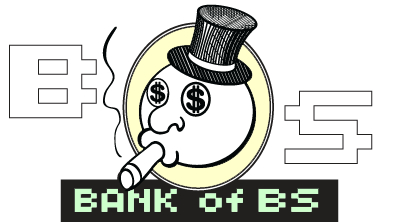
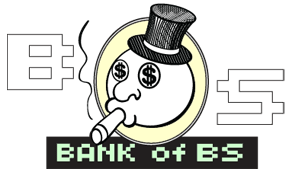
shrinking header

diff --git a/jekyll/stylesheets/screen.css b/jekyll/stylesheets/screen.css
@@ -64,19 +64,18 @@ body#default a { text-decoration: none; }
 body#default a:hover { color: #00f; font-style: bolder; }
 body#default .container { width: 950px; margin: 0 auto; overflow: hidden; display: inline-block; border: 1px solid #ccccc9; margin-bottom: 14px; background-color: #fff; }
 body#default .container { display: block; }
-body#default #header { width: 950px; margin: 0 auto; overflow: hidden; display: inline-block; display: inline; float: left; margin-right: 0; width: 950px; background-color: #ccffff; height: 195px; border-bottom: 1px solid #333; margin-bottom: 44px; }
+body#default #header { width: 950px; margin: 0 auto; overflow: hidden; display: inline-block; display: inline; float: left; margin-right: 0; width: 950px; background-color: #ccffff; height: 155px; border-bottom: 1px solid #333; margin-bottom: 44px; }
 body#default #header { display: block; }
 * html body#default #header { overflow-x: hidden; }
-body#default #header .foreclosed { display: inline; float: left; margin-right: 10px; width: 190px; padding-top: 123px; }
+body#default #header .foreclosed { display: inline; float: left; margin-right: 10px; width: 190px; padding-top: 80px; }
 * html body#default #header .foreclosed { overflow-x: hidden; }
 body#default #header .foreclosed img { margin-left: 11px; }
 body#default #header .logo { padding-left: 40px; display: inline; float: left; margin-right: 10px; width: 350px; }
 * html body#default #header .logo { overflow-x: hidden; }
-body#default #header .logo img { z-index: 99; overflow: visible; position: absolute; margin-left: 1px; }
+body#default #header .logo img { z-index: 99; overflow: visible; position: absolute; margin-left: 83px; }
 body#default #header .quote { padding-left: 480px; display: inline; float: left; margin-right: 0; width: 190px; text-align: center; }
 * html body#default #header .quote { overflow-x: hidden; }
 body#default #header .quote span { margin-top: 46px; font-style: italic; display: block; }
-body#default #header .quote .home-logo { text-align: left; margin-top: 33px; }
 body#default #content-wrapper { width: 950px; margin: 0 auto; overflow: hidden; display: inline-block; display: inline; float: left; margin-right: 10px; width: 870px; padding-left: 40px; min-height: 444px; }
 body#default #content-wrapper { display: block; }
 * html body#default #content-wrapper { overflow-x: hidden; }

diff --git a/public/stylesheets/screen.css b/public/stylesheets/screen.css
@@ -64,19 +64,18 @@ body#default a { text-decoration: none; }
 body#default a:hover { color: #00f; font-style: bolder; }
 body#default .container { width: 950px; margin: 0 auto; overflow: hidden; display: inline-block; border: 1px solid #ccccc9; margin-bottom: 14px; background-color: #fff; }
 body#default .container { display: block; }
-body#default #header { width: 950px; margin: 0 auto; overflow: hidden; display: inline-block; display: inline; float: left; margin-right: 0; width: 950px; background-color: #ccffff; height: 195px; border-bottom: 1px solid #333; margin-bottom: 44px; }
+body#default #header { width: 950px; margin: 0 auto; overflow: hidden; display: inline-block; display: inline; float: left; margin-right: 0; width: 950px; background-color: #ccffff; height: 155px; border-bottom: 1px solid #333; margin-bottom: 44px; }
 body#default #header { display: block; }
 * html body#default #header { overflow-x: hidden; }
-body#default #header .foreclosed { display: inline; float: left; margin-right: 10px; width: 190px; padding-top: 123px; }
+body#default #header .foreclosed { display: inline; float: left; margin-right: 10px; width: 190px; padding-top: 80px; }
 * html body#default #header .foreclosed { overflow-x: hidden; }
 body#default #header .foreclosed img { margin-left: 11px; }
 body#default #header .logo { padding-left: 40px; display: inline; float: left; margin-right: 10px; width: 350px; }
 * html body#default #header .logo { overflow-x: hidden; }
-body#default #header .logo img { z-index: 99; overflow: visible; position: absolute; margin-left: 1px; }
+body#default #header .logo img { z-index: 99; overflow: visible; position: absolute; margin-left: 83px; }
 body#default #header .quote { padding-left: 480px; display: inline; float: left; margin-right: 0; width: 190px; text-align: center; }
 * html body#default #header .quote { overflow-x: hidden; }
 body#default #header .quote span { margin-top: 46px; font-style: italic; display: block; }
-body#default #header .quote .home-logo { text-align: left; margin-top: 33px; }
 body#default #content-wrapper { width: 950px; margin: 0 auto; overflow: hidden; display: inline-block; display: inline; float: left; margin-right: 10px; width: 870px; padding-left: 40px; min-height: 444px; }
 body#default #content-wrapper { display: block; }
 * html body#default #content-wrapper { overflow-x: hidden; }

diff --git a/jekyll/_sass/screen.sass b/jekyll/_sass/screen.sass
@@ -23,16 +23,17 @@ body#default
     :border 1px solid #ccccc9
     :margin-bottom 14px
     :background-color #fff
+    
   #header
     +container
     +column(24, true)
     :background-color #ccffff
-    :height 195px
+    :height 155px
     :border-bottom 1px solid #333
     :margin-bottom 44px
     .foreclosed
       +column(5)
-      :padding-top 123px
+      :padding-top 80px
       img
         :margin-left 11px
     .logo
@@ -42,7 +43,7 @@ body#default
         :z-index  99
         :overflow visible
         :position absolute
-        :margin-left 1px          
+        :margin-left 83px          
     .quote
       +prepend(12)
       +column(5, true)
@@ -51,9 +52,6 @@ body#default
         :margin-top 46px
         :font-style italic
         :display block
-      .home-logo
-        :text-align left
-        :margin-top 33px
 
   // this is a container around all content.
   #content-wrapper
